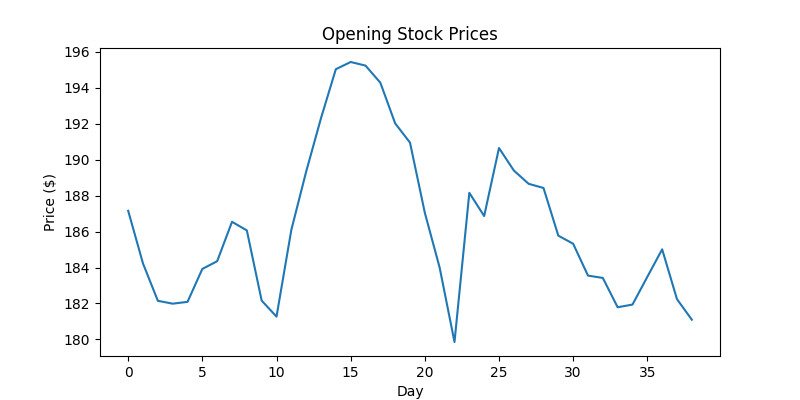
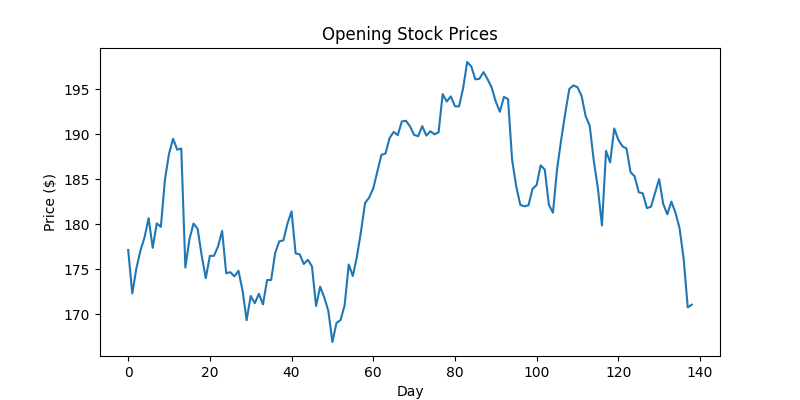
Fixed PPO
PPO policy now works on the smaller dataset, a bigger dataset was chosen to try and further optimise the model

diff --git a/ppo_agent.py b/ppo_agent.py
@@ -1,4 +1,5 @@
 import tensorflow as tf
+import numpy as np
 
 class PPOAgent:
     def __init__ (self, model, action_size, gamma = 0.99, lambda_ = 0.95):
@@ -14,26 +15,47 @@ class PPOAgent:
         return action
 
     def get_gae (self, rewards, values, next_values, dones):
-        deltas = rewards + self.gamma * next_values * (1 - dones) - values
-        gaes = np.zeros_like(rewards)
-        for t in reverse (range(len(deltas))):
-            gaes[t] = deltas[t] + self.gamma * self.lambda_ * (1 - dones[t] * gaes[t+1])
+        rewards = np.array(rewards, dtype=np.float32).flatten()
+        values = np.array(values, dtype=np.float32).flatten()
+        next_values = np.array(next_values, dtype=np.float32).flatten()
+        dones = np.array(dones, dtype=np.float32).astype(int).flatten()
+
+        deltas = rewards + self.gamma * next_values * (1-dones) - values
+        gaes = np.zeros_like(rewards, dtype=np.float32)
+        future_gae = 0.0
+        for t in reversed (range(len(deltas))):
+            gaes[t] = deltas[t] + self.gamma * self.lambda_ * future_gae * (1- dones[t])
+            future_gae = gaes[t]
         return gaes
     
     def learn (self , states, actions, rewards, next_states, dones):
-        next_states = next_states.reshape([len(next_states), -1])
+        actions = np.array(actions).reshape(-1,1).astype(np.int32)
+        next_states = next_states.reshape([len(next_states), -1]).astype(np.float32)
+        states = states.reshape([len(states), -1]).astype(np.float32)
+
         _, next_values = self.model.predict(next_states)
-        states = states.reshape([len(states), -1])
         _, values = self.model.predict(states)
+
+        next_values = next_values.astype(np.float32).flatten()
+        values = values.astype(np.float32).flatten()
 
         gaes = self.get_gae(rewards, values, next_values, dones)
         target_values = gaes + values
 
+        target_values = tf.convert_to_tensor(target_values, dtype=tf.float32)
+
         with tf.GradientTape() as tape:
             probs, values = self.model(states)
-            action_probs = tf.gather_nd(probs, actions)
+            action_indices = tf.concat([tf.range(actions.shape[0])[:, tf.newaxis],actions], axis = -1)
+            action_probs = tf.gather_nd(probs, action_indices)
+
             advantages = target_values - values
-            actor_loss = -tf.math.log(action_probs) * advantages
+            advantages = tf.convert_to_tensor(target_values - values.numpy(), dtype=tf.float32)
+            advantages = tf.reshape(advantages, [-1, 1])
+
+            actor_loss = -tf.math.log(action_probs + 1e-8) * advantages
+            actor_loss = tf.reduce_mean (actor_loss)
+
             critic_loss = tf.keras.losses.MSE(values, target_values)
             total_loss = actor_loss + critic_loss
 

diff --git a/model_manager.py b/model_manager.py
@@ -1,6 +1,6 @@
 import os
-from tensorflow.keras.models import Sequential, load_model
-from tensorflow.keras.layers import Dense
+from tensorflow.keras.models import Sequential, load_model, Model
+from tensorflow.keras.layers import Dense, Input
 from tensorflow.keras.optimizers import Adam
 
 def check_and_load_model(model_path, input_shape, action_size):
@@ -9,7 +9,7 @@ def check_and_load_model(model_path, input_shape, action_size):
         return load_model(model_path)
     else:
         print("No existing model found. Creating a new one...")
-        return create_q_model(input_shape, action_size)
+        return create_ppo_model(input_shape, action_size)
     
 def create_q_model(input_shape, action_size):
     model = Sequential()
@@ -19,9 +19,11 @@ def create_q_model(input_shape, action_size):
     model.compile(loss='mse', optimizer=Adam(learning_rate=0.01))
     return model
 
-def create_ppo_model(input_shape, aciton_size):
+def create_ppo_model(input_shape, action_size):
     inputs = Input(shape=(input_shape,))
-    x = Dense (128, activation = 'relu') (inputs)
+    x = Dense (512, activation = 'relu') (inputs)
+    x = Dense (256, activation = 'relu') (x)
+    x = Dense (128, activation = 'relu') (x)
     x = Dense (64, activation = 'relu') (x)
     action_probs = Dense (action_size, activation = 'softmax')(x)
     values = Dense(1)(x)

diff --git a/main.py b/main.py
@@ -6,15 +6,15 @@ from trading_environment import TradingEnv
 from q_learning_agent import QLearningAgent
 from a2c_agent import A2CAgent
 from ppo_agent import PPOAgent
-path = "C:\\Users\\Computing\\Desktop\\super secret project" # Root folder containing the model
+path = "C:\\Users\\Games Lab\\Desktop\\TradingAI-main" # Root folder containing the model
 model_filename = "model.keras"
 model_path = os.path.join(path, model_filename)
 
 def main():
     # Fetch Stock Data
     symbol = 'AAPL'
-    start_date = '2024-01-01'
-    end_date = '2024-02-28'
+    start_date = '2023-08-17'
+    end_date = '2024-03-07'
     stock_prices = get_prices(symbol, start_date, end_date)
 
     # Initialize Environment and Agent
@@ -62,6 +62,8 @@ def main():
     agent = PPOAgent(model, action_size)
 
     for e in range(num_episodes):
+        env.render(mode = 'file', save = True, epoch=e)
+        env.rendering_data = {'prices' : [], 'actions': []}
         state = env.reset()
         states, actions, rewards, next_states, dones = [], [], [], [], []
 

diff --git a/data_manager.py b/data_manager.py
@@ -3,12 +3,12 @@ import yfinance as yf
 import matplotlib.pyplot as plt
 
 def get_prices(share_symbol, start_date, end_date, cache_filename="stock_prices.npy"):
-    try:
-        stock_prices = np.load(cache_filename)
-    except IOError:
-        stock_data = yf.download(share_symbol, start=start_date, end=end_date)
-        stock_prices = stock_data['Open'].values
-        np.save(cache_filename, stock_prices)
+    #try:
+    #    stock_prices = np.load(cache_filename)
+    #except IOError:
+    stock_data = yf.download(share_symbol, start=start_date, end=end_date)
+    stock_prices = stock_data['Open'].values
+    np.save(cache_filename, stock_prices)
     return stock_prices.astype(float)
 
 def plot_prices(prices):

diff --git a/trading_environment.py b/trading_environment.py
@@ -189,7 +189,7 @@ class TradingEnv(gym.Env):
 
         # Save the plot with a unique name for each epoch
         if save and epoch is not None:
-            save_path = "C:\\Users\\Computing\\Desktop\\super secret project\\Images"
+            save_path = "C:\\Users\\Games Lab\\Desktop\\TradingAI-main\\Images"
             plot_filename = f'trading_plot_epoch_{epoch}.png'
             full_plot_path = os.path.join(save_path, plot_filename)
             plt.savefig(full_plot_path)
